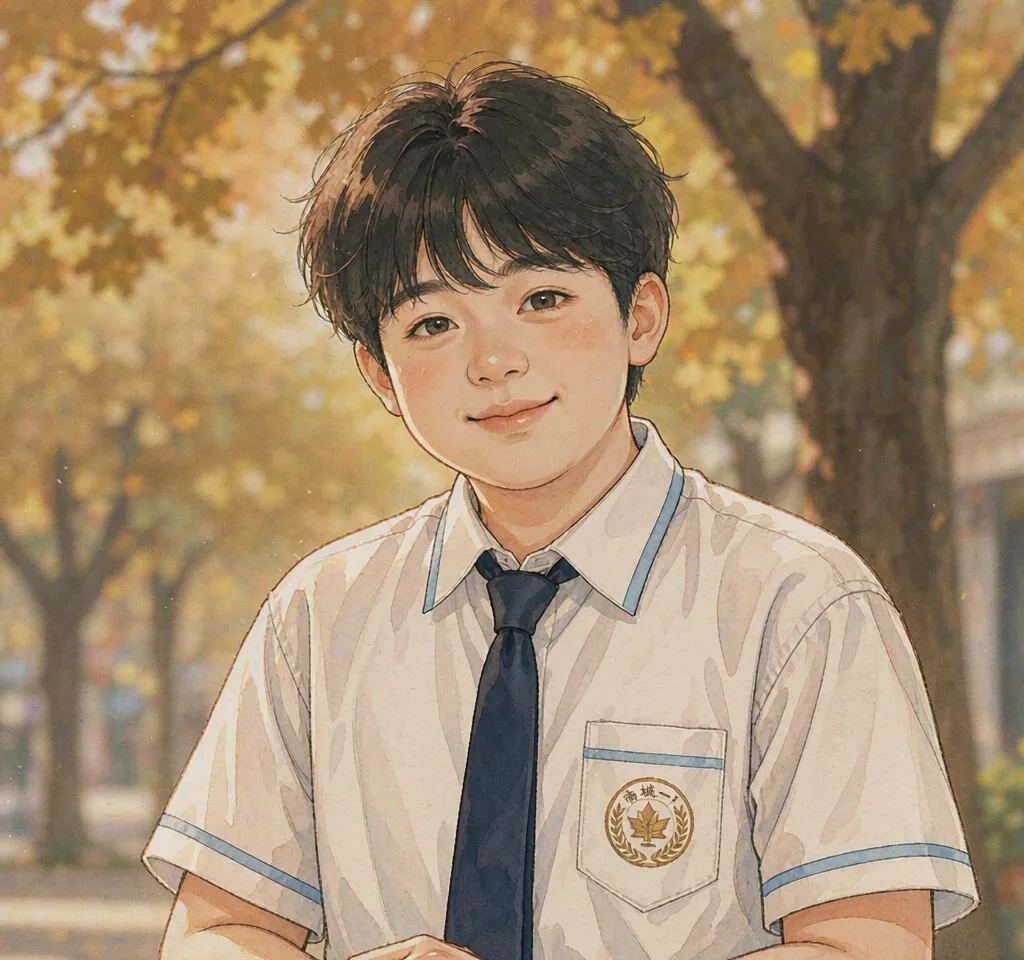
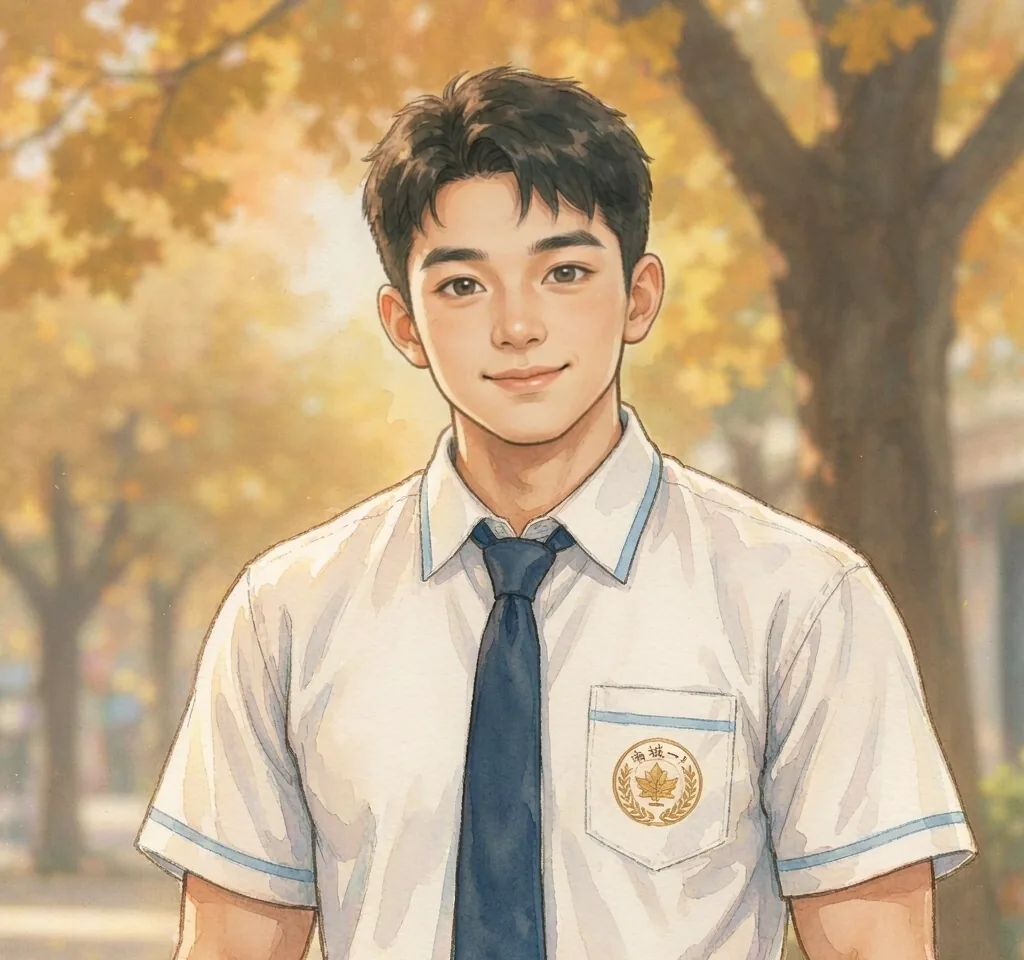
白余欢立绘换壮版少年脸（CACHE v49）

diff --git a/index.html b/index.html
@@ -18,9 +18,9 @@
        抢走同一条连接上的带宽（实测冷启动：cover 199ms 起、CSS 201ms 起）。
        这里改指 144x196 的 cover-thumb.webp（5.7KB），
        不再用 528x720 的 cover.webp（69.4KB）去画一个 46x62 的方块。 -->
-  <link rel="stylesheet" href="css/style.css?v=57">
+  <link rel="stylesheet" href="css/style.css?v=58">
   <link rel="preload" as="image" href="assets/cover-thumb.webp">
-  <script src="js/theme.js?v=57"></script>
+  <script src="js/theme.js?v=58"></script>
 </head>
 <body class="tab-page-body">
   <div class="phone-frame home-page">
@@ -119,8 +119,8 @@
        弱网下 chapters.js 没回来之前整页白屏（首屏可感知卡顿）。
        放在这里首屏骨架先画出来；但必须保持在下面依赖 CHAPTERS 的内联脚本之前
        （经典脚本按文档顺序执行，内联脚本是同步 IIFE，等不到任何异步回调）。 -->
-  <script src="js/chapters.js?v=57"></script>
-  <script src="js/transition.js?v=57"></script>
+  <script src="js/chapters.js?v=58"></script>
+  <script src="js/transition.js?v=58"></script>
 
   <script>
   (function() {

diff --git a/novel/chapter-01.html b/novel/chapter-01.html
@@ -22,7 +22,7 @@
     "inLanguage": "zh-CN"
   }
   </script>
-  <link rel="stylesheet" href="../css/style.css?v=57">
+  <link rel="stylesheet" href="../css/style.css?v=58">
 </head>
 <body class="reading-page">
   <div class="reading-wrapper">
@@ -170,13 +170,13 @@
 
   </div>
 
-  <script src="../js/chapters.js?v=57"></script>
-  <script src="../js/transition.js?v=57"></script>
-  <script src="../js/reader.flags.js?v=57"></script>
-  <script src="../js/reader.dom.js?v=57"></script>
-  <script src="../js/reader.store.js?v=57"></script>
-  <script src="../js/reader.engine.js?v=57"></script>
-  <script src="../js/reader.ui.js?v=57"></script>
-  <script src="../js/reader.js?v=57"></script>
+  <script src="../js/chapters.js?v=58"></script>
+  <script src="../js/transition.js?v=58"></script>
+  <script src="../js/reader.flags.js?v=58"></script>
+  <script src="../js/reader.dom.js?v=58"></script>
+  <script src="../js/reader.store.js?v=58"></script>
+  <script src="../js/reader.engine.js?v=58"></script>
+  <script src="../js/reader.ui.js?v=58"></script>
+  <script src="../js/reader.js?v=58"></script>
 </body>
 </html>

diff --git a/novel/chapter-02.html b/novel/chapter-02.html
@@ -22,7 +22,7 @@
     "inLanguage": "zh-CN"
   }
   </script>
-  <link rel="stylesheet" href="../css/style.css?v=57">
+  <link rel="stylesheet" href="../css/style.css?v=58">
 </head>
 <body class="reading-page">
   <div class="reading-wrapper">
@@ -157,13 +157,13 @@
 
   </div>
 
-  <script src="../js/chapters.js?v=57"></script>
-  <script src="../js/transition.js?v=57"></script>
-  <script src="../js/reader.flags.js?v=57"></script>
-  <script src="../js/reader.dom.js?v=57"></script>
-  <script src="../js/reader.store.js?v=57"></script>
-  <script src="../js/reader.engine.js?v=57"></script>
-  <script src="../js/reader.ui.js?v=57"></script>
-  <script src="../js/reader.js?v=57"></script>
+  <script src="../js/chapters.js?v=58"></script>
+  <script src="../js/transition.js?v=58"></script>
+  <script src="../js/reader.flags.js?v=58"></script>
+  <script src="../js/reader.dom.js?v=58"></script>
+  <script src="../js/reader.store.js?v=58"></script>
+  <script src="../js/reader.engine.js?v=58"></script>
+  <script src="../js/reader.ui.js?v=58"></script>
+  <script src="../js/reader.js?v=58"></script>
 </body>
 </html>

diff --git a/novel/chapter-03.html b/novel/chapter-03.html
@@ -22,7 +22,7 @@
     "inLanguage": "zh-CN"
   }
   </script>
-  <link rel="stylesheet" href="../css/style.css?v=57">
+  <link rel="stylesheet" href="../css/style.css?v=58">
 </head>
 <body class="reading-page">
   <div class="reading-wrapper">
@@ -137,13 +137,13 @@
 
   </div>
 
-  <script src="../js/chapters.js?v=57"></script>
-  <script src="../js/transition.js?v=57"></script>
-  <script src="../js/reader.flags.js?v=57"></script>
-  <script src="../js/reader.dom.js?v=57"></script>
-  <script src="../js/reader.store.js?v=57"></script>
-  <script src="../js/reader.engine.js?v=57"></script>
-  <script src="../js/reader.ui.js?v=57"></script>
-  <script src="../js/reader.js?v=57"></script>
+  <script src="../js/chapters.js?v=58"></script>
+  <script src="../js/transition.js?v=58"></script>
+  <script src="../js/reader.flags.js?v=58"></script>
+  <script src="../js/reader.dom.js?v=58"></script>
+  <script src="../js/reader.store.js?v=58"></script>
+  <script src="../js/reader.engine.js?v=58"></script>
+  <script src="../js/reader.ui.js?v=58"></script>
+  <script src="../js/reader.js?v=58"></script>
 </body>
 </html>

diff --git a/novel/chapter-04.html b/novel/chapter-04.html
@@ -22,7 +22,7 @@
     "inLanguage": "zh-CN"
   }
   </script>
-  <link rel="stylesheet" href="../css/style.css?v=57">
+  <link rel="stylesheet" href="../css/style.css?v=58">
 </head>
 <body class="reading-page">
   <div class="reading-wrapper">
@@ -169,13 +169,13 @@
 
   </div>
 
-  <script src="../js/chapters.js?v=57"></script>
-  <script src="../js/transition.js?v=57"></script>
-  <script src="../js/reader.flags.js?v=57"></script>
-  <script src="../js/reader.dom.js?v=57"></script>
-  <script src="../js/reader.store.js?v=57"></script>
-  <script src="../js/reader.engine.js?v=57"></script>
-  <script src="../js/reader.ui.js?v=57"></script>
-  <script src="../js/reader.js?v=57"></script>
+  <script src="../js/chapters.js?v=58"></script>
+  <script src="../js/transition.js?v=58"></script>
+  <script src="../js/reader.flags.js?v=58"></script>
+  <script src="../js/reader.dom.js?v=58"></script>
+  <script src="../js/reader.store.js?v=58"></script>
+  <script src="../js/reader.engine.js?v=58"></script>
+  <script src="../js/reader.ui.js?v=58"></script>
+  <script src="../js/reader.js?v=58"></script>
 </body>
 </html>

diff --git a/novel/index.html b/novel/index.html
@@ -24,8 +24,8 @@
     "author": { "@type": "Person", "name": "叶南衡" }
   }
   </script>
-  <link rel="stylesheet" href="../css/style.css?v=57">
-  <script src="../js/theme.js?v=57"></script>
+  <link rel="stylesheet" href="../css/style.css?v=58">
+  <script src="../js/theme.js?v=58"></script>
 </head>
 <body class="tab-page-body">
   <div class="phone-frame">
@@ -149,8 +149,8 @@
        弱网下 chapters.js 没回来之前整页白屏（书架页首屏可感知卡顿）。
        放在这里首屏骨架先画出来；但必须保持在下面依赖 CHAPTERS 的内联脚本之前
        （经典脚本按文档顺序执行，内联脚本是同步 IIFE，等不到任何异步回调）。 -->
-  <script src="../js/chapters.js?v=57"></script>
-  <script src="../js/transition.js?v=57"></script>
+  <script src="../js/chapters.js?v=58"></script>
+  <script src="../js/transition.js?v=58"></script>
 
   <script>
   (function() {

diff --git a/novel/character-baiyu.html b/novel/character-baiyu.html
@@ -12,8 +12,8 @@
   <meta property="og:image" content="https://zephyrw.site/assets/og-cover.jpg">
   <meta property="og:type" content="article">
   <link rel="manifest" href="../manifest.json">
-  <link rel="stylesheet" href="../css/style.css?v=57">
-  <script src="../js/theme.js?v=57"></script>
+  <link rel="stylesheet" href="../css/style.css?v=58">
+  <script src="../js/theme.js?v=58"></script>
 </head>
 <body class="tab-page-body">
   <div class="phone-frame">
@@ -63,6 +63,6 @@
     <div class="home-footer">名字记住以后，故事就会自己发光</div>
 
   </div>
-  <script src="../js/lightbox.js?v=57"></script>
+  <script src="../js/lightbox.js?v=58"></script>
 </body>
 </html>

diff --git a/novel/character-baiyuhuan.html b/novel/character-baiyuhuan.html
@@ -12,8 +12,8 @@
   <meta property="og:image" content="https://zephyrw.site/assets/og-cover.jpg">
   <meta property="og:type" content="article">
   <link rel="manifest" href="../manifest.json">
-  <link rel="stylesheet" href="../css/style.css?v=57">
-  <script src="../js/theme.js?v=57"></script>
+  <link rel="stylesheet" href="../css/style.css?v=58">
+  <script src="../js/theme.js?v=58"></script>
 </head>
 <body class="tab-page-body">
   <div class="phone-frame">
@@ -64,6 +64,6 @@
     <div class="home-footer">名字记住以后，故事就会自己发光</div>
 
   </div>
-  <script src="../js/lightbox.js?v=57"></script>
+  <script src="../js/lightbox.js?v=58"></script>
 </body>
 </html>

diff --git a/novel/character-guchiyan.html b/novel/character-guchiyan.html
@@ -12,8 +12,8 @@
   <meta property="og:image" content="https://zephyrw.site/assets/og-cover.jpg">
   <meta property="og:type" content="article">
   <link rel="manifest" href="../manifest.json">
-  <link rel="stylesheet" href="../css/style.css?v=57">
-  <script src="../js/theme.js?v=57"></script>
+  <link rel="stylesheet" href="../css/style.css?v=58">
+  <script src="../js/theme.js?v=58"></script>
 </head>
 <body class="tab-page-body">
   <div class="phone-frame">
@@ -63,6 +63,6 @@
     <div class="home-footer">名字记住以后，故事就会自己发光</div>
 
   </div>
-  <script src="../js/lightbox.js?v=57"></script>
+  <script src="../js/lightbox.js?v=58"></script>
 </body>
 </html>

diff --git a/novel/character-jiangbuqiu.html b/novel/character-jiangbuqiu.html
@@ -12,8 +12,8 @@
   <meta property="og:image" content="https://zephyrw.site/assets/og-cover.jpg">
   <meta property="og:type" content="article">
   <link rel="manifest" href="../manifest.json">
-  <link rel="stylesheet" href="../css/style.css?v=57">
-  <script src="../js/theme.js?v=57"></script>
+  <link rel="stylesheet" href="../css/style.css?v=58">
+  <script src="../js/theme.js?v=58"></script>
 </head>
 <body class="tab-page-body">
   <div class="phone-frame">
@@ -64,6 +64,6 @@
     <div class="home-footer">名字记住以后，故事就会自己发光</div>
 
   </div>
-  <script src="../js/lightbox.js?v=57"></script>
+  <script src="../js/lightbox.js?v=58"></script>
 </body>
 </html>

diff --git a/novel/character-jiangzhenmo.html b/novel/character-jiangzhenmo.html
@@ -12,8 +12,8 @@
   <meta property="og:image" content="https://zephyrw.site/assets/og-cover.jpg">
   <meta property="og:type" content="article">
   <link rel="manifest" href="../manifest.json">
-  <link rel="stylesheet" href="../css/style.css?v=57">
-  <script src="../js/theme.js?v=57"></script>
+  <link rel="stylesheet" href="../css/style.css?v=58">
+  <script src="../js/theme.js?v=58"></script>
 </head>
 <body class="tab-page-body">
   <div class="phone-frame">
@@ -63,6 +63,6 @@
     <div class="home-footer">名字记住以后，故事就会自己发光</div>
 
   </div>
-  <script src="../js/lightbox.js?v=57"></script>
+  <script src="../js/lightbox.js?v=58"></script>
 </body>
 </html>

diff --git a/novel/character-linshu.html b/novel/character-linshu.html
@@ -12,8 +12,8 @@
   <meta property="og:image" content="https://zephyrw.site/assets/og-cover.jpg">
   <meta property="og:type" content="article">
   <link rel="manifest" href="../manifest.json">
-  <link rel="stylesheet" href="../css/style.css?v=57">
-  <script src="../js/theme.js?v=57"></script>
+  <link rel="stylesheet" href="../css/style.css?v=58">
+  <script src="../js/theme.js?v=58"></script>
 </head>
 <body class="tab-page-body">
   <div class="phone-frame">
@@ -64,6 +64,6 @@
     <div class="home-footer">名字记住以后，故事就会自己发光</div>
 
   </div>
-  <script src="../js/lightbox.js?v=57"></script>
+  <script src="../js/lightbox.js?v=58"></script>
 </body>
 </html>
